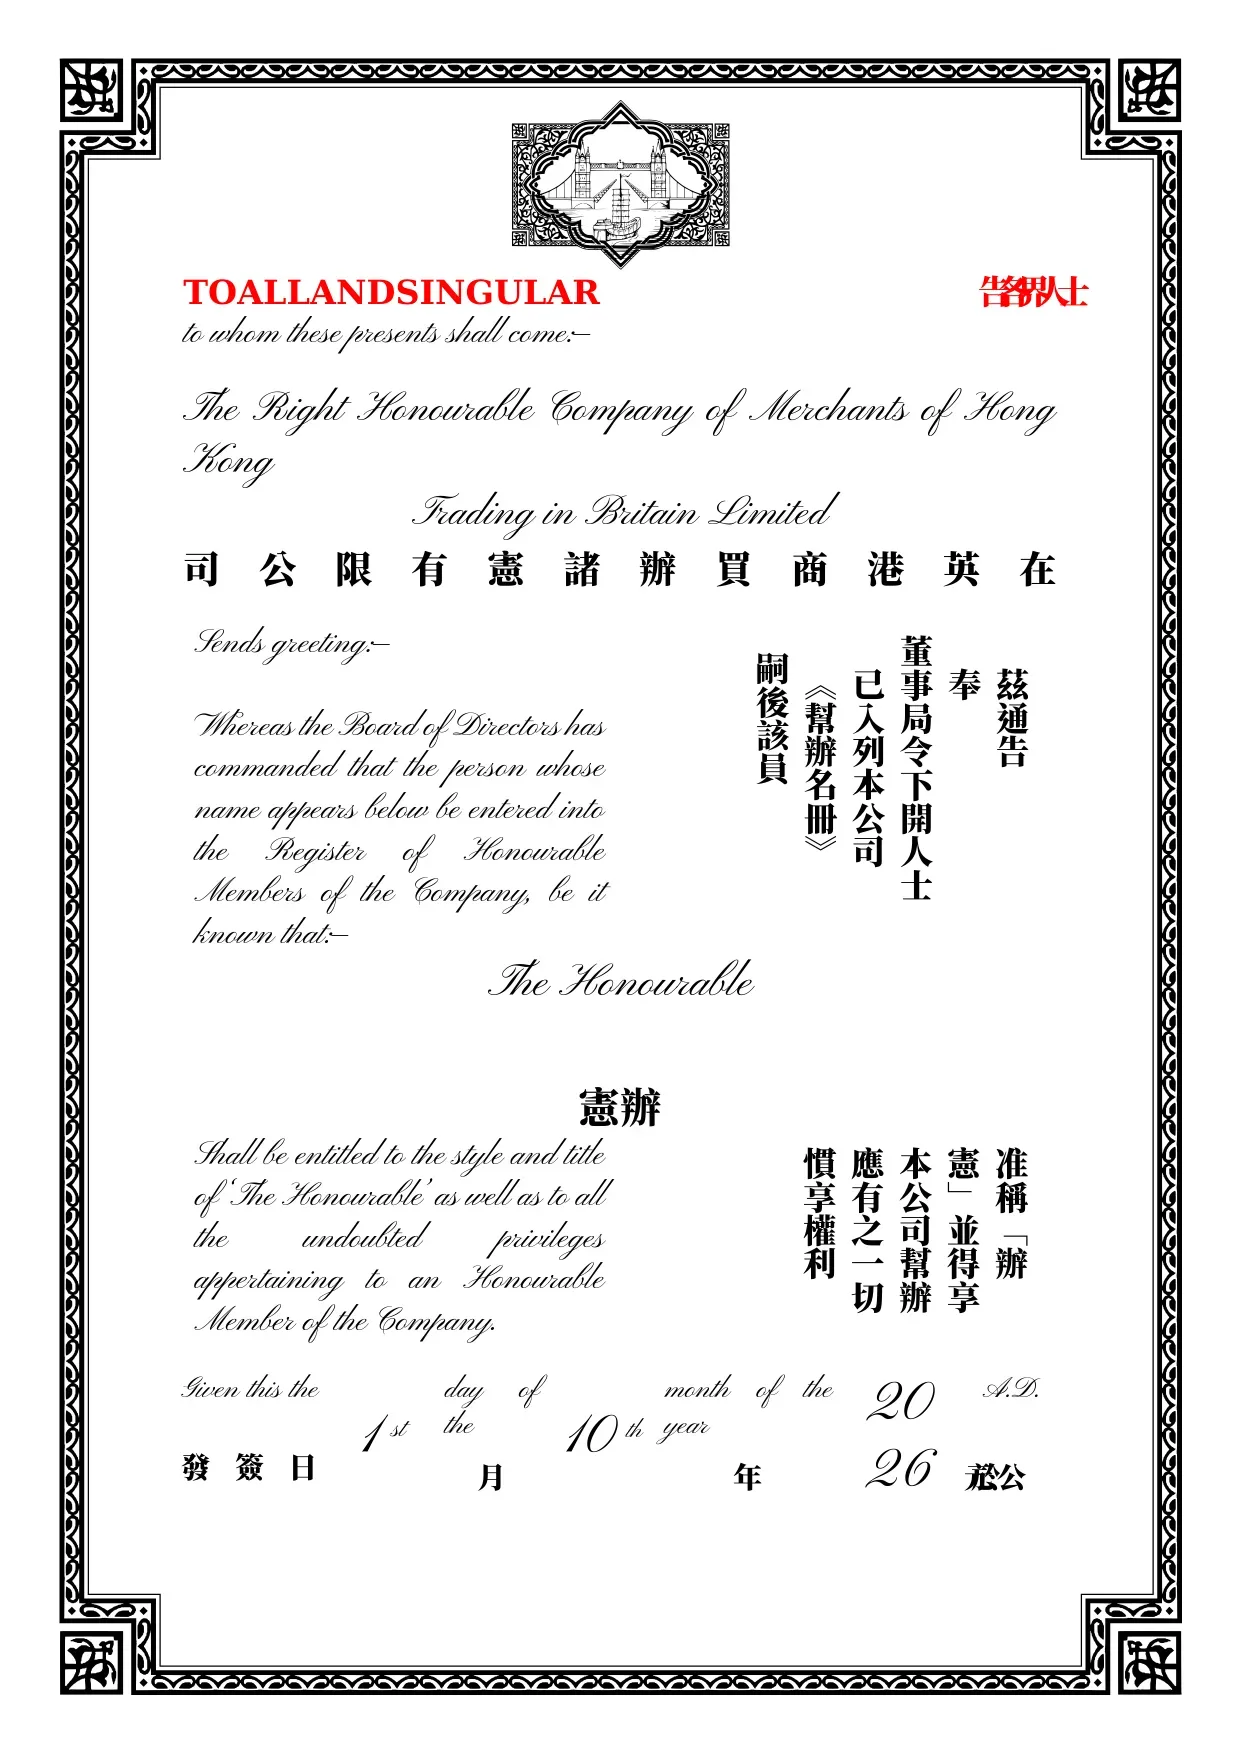
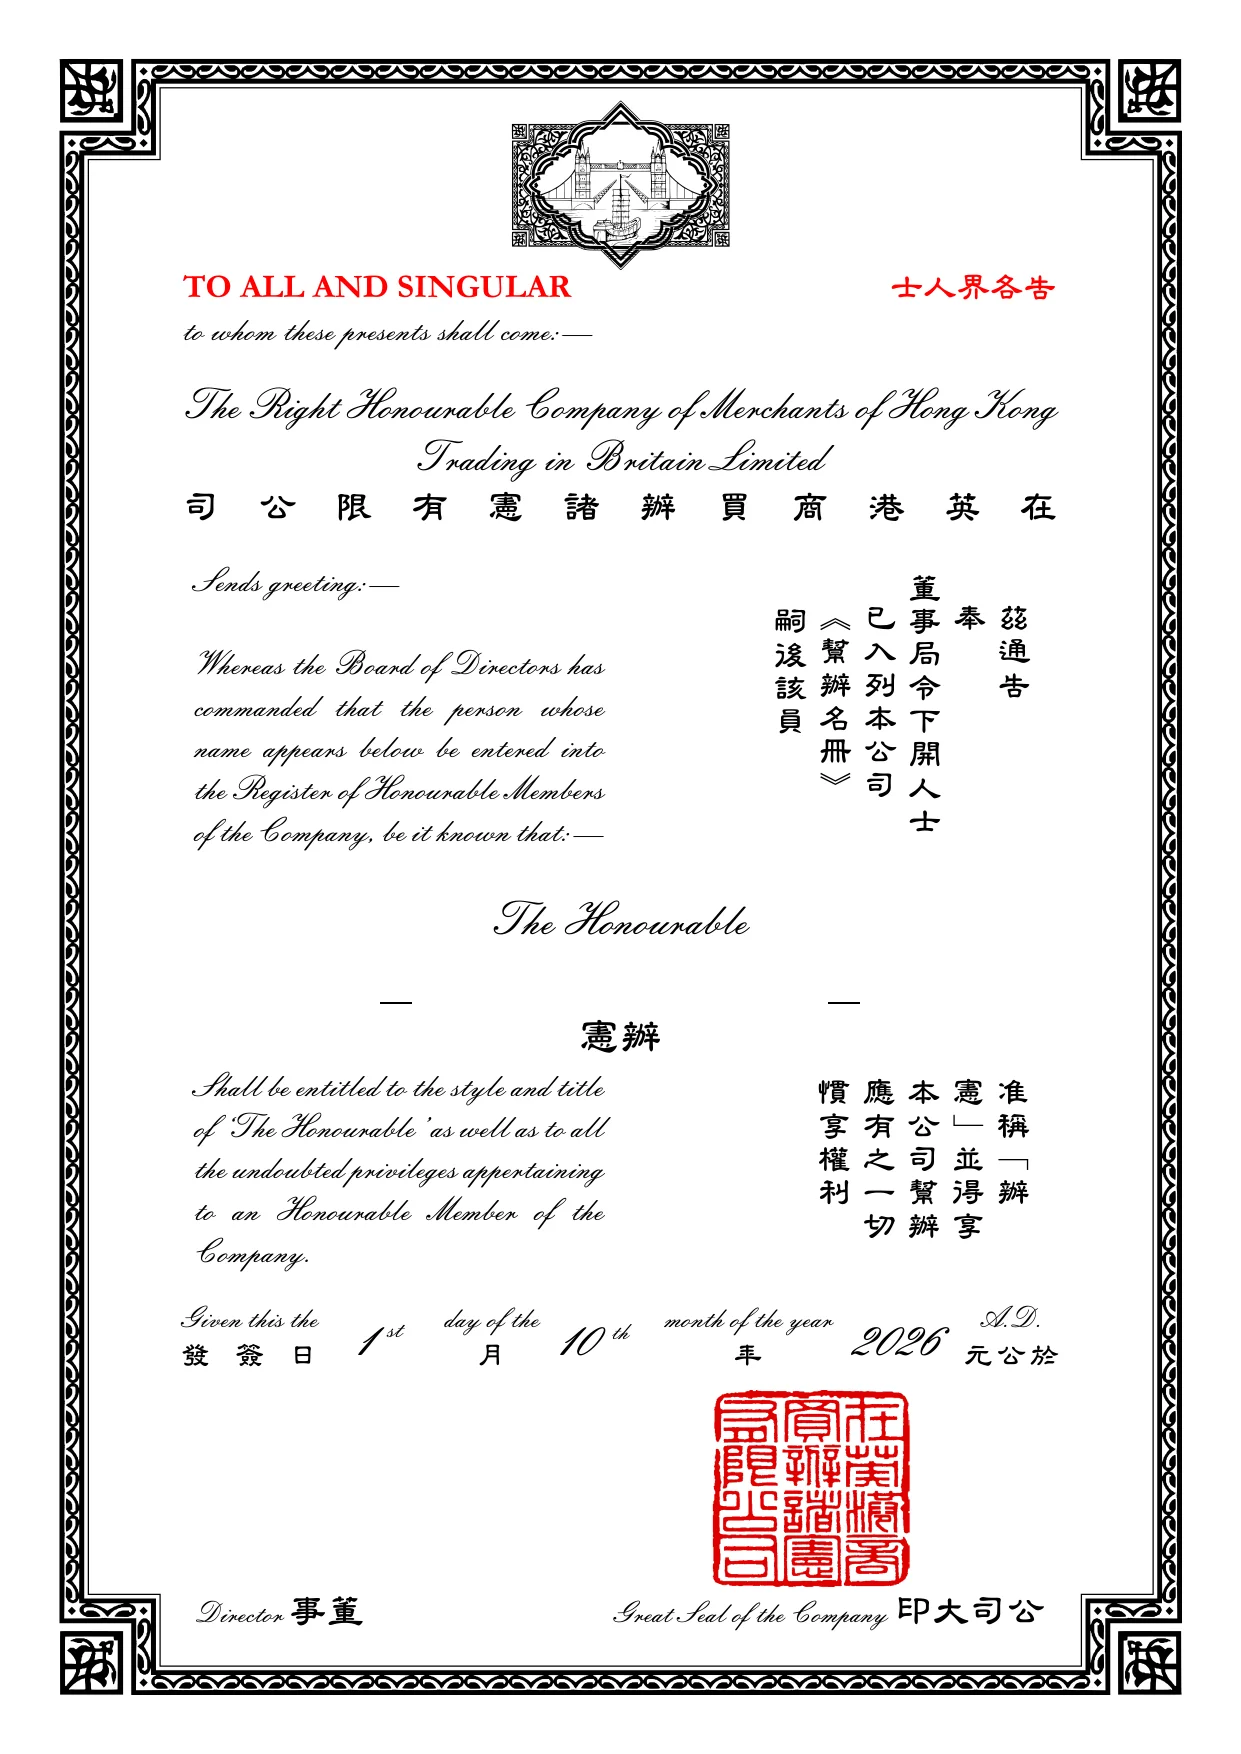
Use the Word-exported certificate; retune name overlay

diff --git a/index.html b/index.html
@@ -15,7 +15,7 @@
 <style>
 .cert2{margin:0;position:relative;container-type:inline-size;box-shadow:0 1px 2px rgba(0,0,0,.08),0 12px 32px rgba(0,0,0,.14);background:#fff}
 .cert2 img{display:block;width:100%;height:auto}
-.cert2 .nm{position:absolute;left:8%;right:8%;top:var(--name-y,59.7%);transform:translateY(-50%);text-align:center;font-family:"Pinyon Script",cursive;font-size:var(--fs,5.4cqw);line-height:1;color:#1b1b1b;white-space:nowrap;overflow:hidden}
+.cert2 .nm{position:absolute;left:8%;right:8%;top:var(--name-y,55.8%);transform:translateY(-50%);text-align:center;font-family:"Pinyon Script",cursive;font-size:var(--fs,3.85cqw);line-height:1;color:#1b1b1b;white-space:nowrap;overflow:hidden}
 .cname{display:block;margin:1.4em 0 .4em}
 .cname span{display:block;font-style:italic;margin-bottom:.45em}
 .cname input{width:100%;max-width:24rem;font:inherit;font-size:1.05rem;padding:.6em .75em;border:1px solid currentColor;border-radius:0;background:#fff;color:inherit}
@@ -141,7 +141,7 @@
   function upd(){
     var v=i.value.replace(/\s+/g," ").trim()||"Your Name";
     o.textContent=v;
-    o.style.setProperty("--fs", Math.min(5.4, 5.4*30/Math.max(v.length,1)).toFixed(2)+"cqw");
+    o.style.setProperty("--fs", Math.min(3.85, 3.85*21/Math.max(v.length,1)).toFixed(2)+"cqw");
   }
   i.addEventListener("input",upd); upd();
 })();
